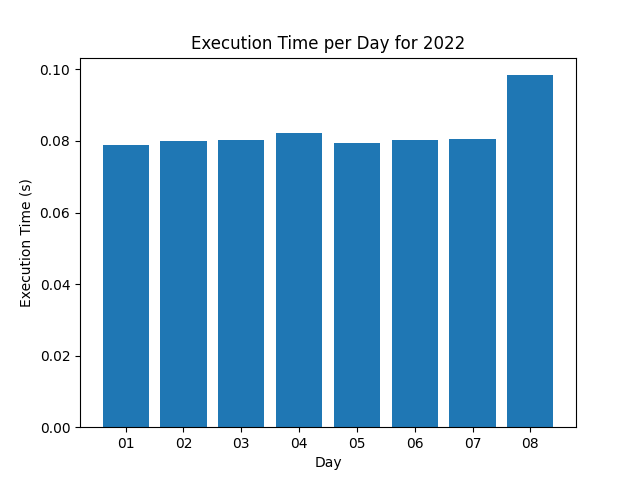
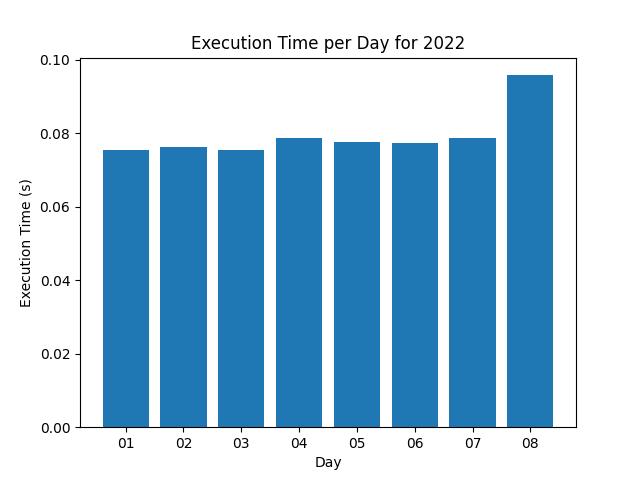
20231208 - Added solution for day_08

diff --git a/2023/day_08/solution.py b/2023/day_08/solution.py
@@ -1,0 +1,57 @@
+from math import gcd
+from functools import reduce
+from pathlib import Path
+
+SCRIPT_PATH = Path(__file__).resolve().parent
+INPUT_PATH = Path(SCRIPT_PATH, "inputs/input.txt")
+# INPUT_PATH = Path(SCRIPT_PATH, "inputs/example1.txt")
+# INPUT_PATH = Path(SCRIPT_PATH, "inputs/example2.txt")
+
+def parse_input(data):
+    # Parse input into two sections; the directions and the map key, split the map key into a dictionary of list pairs, and return both in a tuple
+    directions, map_key = data.split('\n\n')
+    map_key = {line.split(" = ")[0]: line.split(" = ")[1].strip("()").split(', ') for line in map_key.splitlines()}
+    return (directions, map_key)
+
+def find_first_z(start_point, data):
+    # Brute force method to find the first step that has a Z at the end for the supplied start point
+    directions, map_key = data
+    curr_element = start_point
+    count = 0
+    while curr_element[-1] != 'Z':  # This worked fine for part1 so I left it here
+        for direct in directions:
+            selection = 0 if direct == "L" else 1  # Set left to 0 and right to 1 for list comprehension 
+            curr_element = map_key[curr_element][selection]
+            count += 1
+    print(f"{start_point} takes {count} steps to find it's first Z")
+        
+    return count
+
+def find_lcm(x, y):
+    # Function for finding the least common multiple of two numbers using greatest common divisor function
+    return (x * y) // gcd(x, y)
+
+def part1(parsed_data):
+    # Just pass AAA into find first Z and boom
+    return find_first_z('AAA', parsed_data)
+
+def part2(parsed_data):
+    # Find all start points with an A at the end, find the number of steps it takes for each to find their first Z, then find the least common multiple
+    start_points = [key for key in parsed_data[1].keys() if key[-1] == 'A']
+    first_z = [find_first_z(start_point, parsed_data) for start_point in start_points]
+    lcm = reduce(find_lcm, first_z)
+    return lcm
+
+if __name__ == "__main__":
+    with open(INPUT_PATH , "r") as f:
+        parsed_data = parse_input(f.read())
+
+    print("--- PART 1 ---")
+    answer1 = part1(parsed_data)
+    
+    print("\n--- PART 2 ---")
+    answer2 = part2(parsed_data)
+
+    print("\n--- ANSWERS ---")
+    print(f"PART1 - It takes {answer1} steps to find ZZZ")
+    print(f"PART2 - It takes {answer2} steps for all starting points to end up at a Z")

diff --git a/bin/scripts/year_statistics.py b/bin/scripts/year_statistics.py
@@ -1,7 +1,7 @@
 import os
 import subprocess
 import argparse
-from time import time
+from time import perf_counter
 from datetime import datetime
 from pathlib import Path
 import matplotlib.pyplot as plt
@@ -32,10 +32,11 @@ def main():
     for day in os.listdir(year_path):
         if os.path.isdir(Path(year_path, day)):  # Ensure that the day is actually a folder
             total_day_runs = 0
+            script_path = Path(year_path, day) / 'solution.py'
             for _ in range(tries):  # Run each script a number of times based on the tries argument and get average of all runs
-                start = time()
-                subprocess.run(['python3', Path(year_path, day) / 'solution.py'], stdout=subprocess.DEVNULL, stderr=subprocess.DEVNULL)
-                total_day_runs += time() - start
+                start = perf_counter()
+                subprocess.run(['python3', script_path], stdout=subprocess.DEVNULL, stderr=subprocess.DEVNULL)
+                total_day_runs += perf_counter() - start
             day_average = (total_day_runs / tries)
             day_title_data.append(day.replace('day_', ''))
             day_exec_data.append(day_average)
